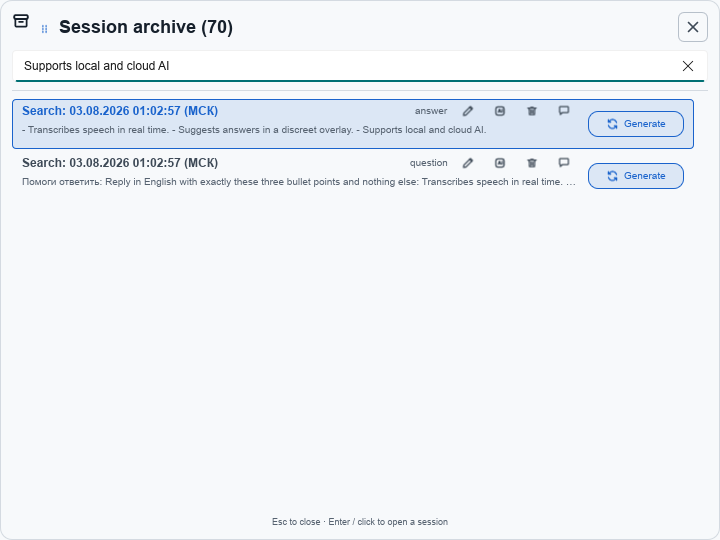
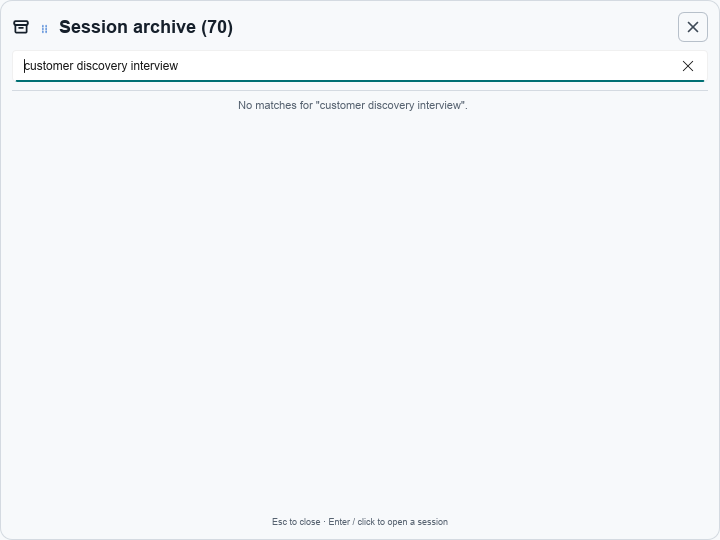
docs: replace archive showcase with English-safe capture

Changed region(s): [[0.0, 0.1778, 0.9778, 0.3556], [0.0306, 0.1185, 0.2444, 0.1481], [0.0, 0.0296, 0.0611, 0.0593]]

diff --git a/docs/audit-2026-08-03-readme-screenshots/README.md b/docs/audit-2026-08-03-readme-screenshots/README.md
@@ -8,7 +8,7 @@ Checked the eight images embedded by `README.md` against the v0.35.3 UI.
 | `setup-wizard.png` | Current: English seven-step wizard from v0.35.3. |
 | `settings-stt-cloud.png` | Current: English STT provider/model selection from v0.35.3. |
 | `tile-empty.png` | Replaced: it used the older tile chrome and Russian copy. The new `tile-answer.png` shows the current English tile, drag grip, actions, follow-up field, and a local-AI answer. |
-| `session-archive.png` | Replaced: the previous empty-state capture predated the current archive header and drag grip. The new privacy-safe search state contains only synthetic English question/answer text created for the capture, with no pre-existing user sessions. |
+| `session-archive.png` | Replaced: the previous empty-state capture predated the current archive header and drag grip. The final privacy-safe English no-match state demonstrates archive search without exposing locale-specific timestamps or session text. |
 
 The two replaced images can be compared with their [v0.35.3 pre-fix tile](https://github.com/PavelLizunov/suflyor/blob/28811ff/docs/showcase/tile-empty.png) and [v0.35.3 pre-fix archive](https://github.com/PavelLizunov/suflyor/blob/28811ff/docs/showcase/session-archive.png).
 
